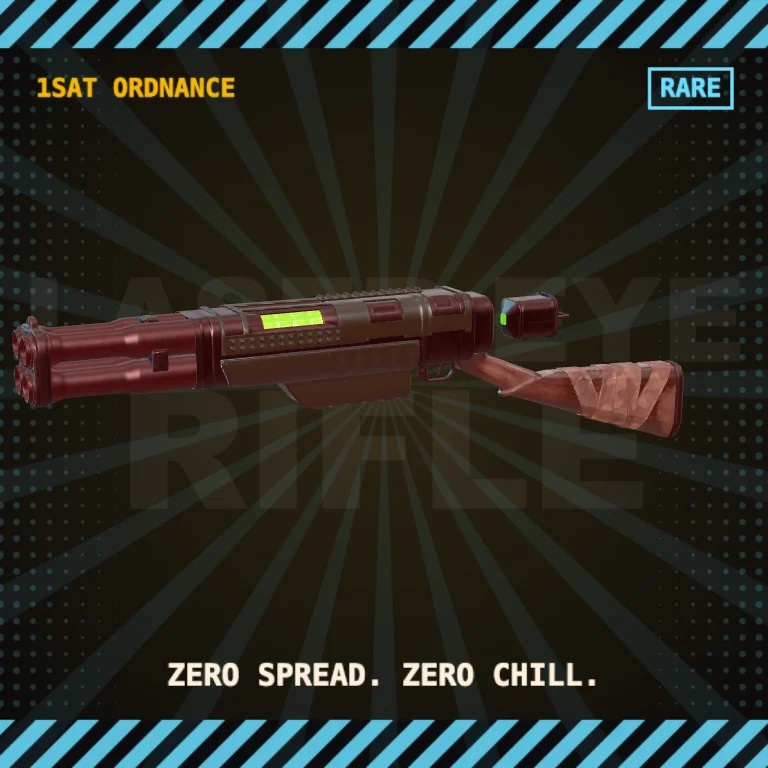
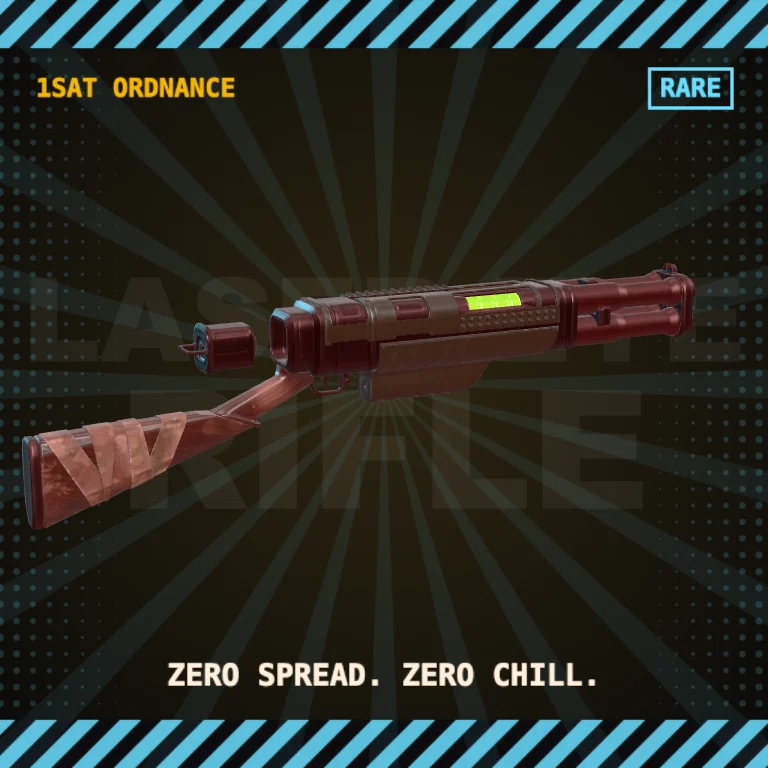
Laser-Eye Rifle fires the right way: the stock Quad Plasma model is turned round at its source
The quadplasma GLB's barrels faced the shooter, so the Laser-Eye (built on it) fired backwards in the store
test-fire, and the Arena's stock Quad Plasma was held reversed too. Guns with their own model (Hashpower
Howitzer, KWEG Grenade Launcher, ...) are unaffected. Laser-Eye poster + share card re-rendered.

Changed region(s): [[0.0, 0.3438, 0.9062, 0.6875]]

diff --git a/src/lib/arenaHD.ts b/src/lib/arenaHD.ts
@@ -159,7 +159,7 @@ export type GunDef = {
 export const GUNS: GunDef[] = [
   { id: 'minigun', name: 'Minigun', key: '1', url: '/arena/models/guns/minigun.glb', flip: true, fireMs: 33, pellets: 1, spread: 0.03, length: 0.9, pos: [0.24, -0.3, -0.55], bolt: '#ffb070', spin: 'Minigun_Rig|Rotation', kick: 0.25 },
   { id: 'plasmarifle', name: 'Plasma MG', key: '2', url: '/arena/models/guns/plasmarifle.glb', fireMs: 55, pellets: 1, spread: 0.015, length: 0.6, pos: [0.22, -0.24, -0.5], bolt: '#6ae0ff', kick: 0.4 },
-  { id: 'quadplasma', name: 'Quad Plasma', key: '3', url: '/arena/models/guns/quadplasma.glb', fireMs: 140, pellets: 4, spread: 0.035, length: 0.75, pos: [0.22, -0.25, -0.5], bolt: '#b46aff', kick: 0.9 },
+  { id: 'quadplasma', name: 'Quad Plasma', key: '3', url: '/arena/models/guns/quadplasma.glb', fireMs: 140, pellets: 4, spread: 0.035, length: 0.75, flip: true, pos: [0.22, -0.25, -0.5], bolt: '#b46aff', kick: 0.9 },
   { id: 'sawedoff', name: 'Sawed-off', key: '4', url: '/arena/models/guns/sawedoff.glb', fireMs: 600, pellets: 8, spread: 0.09, length: 0.65, pos: [0.22, -0.25, -0.48], bolt: '#ffd27a', kick: 1.6 },
 ];
 
